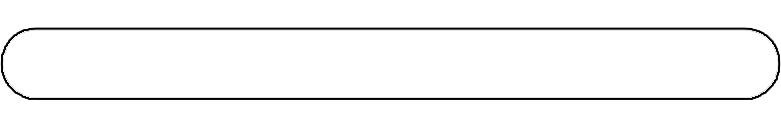
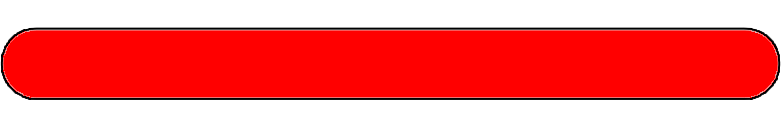
HPの背景を暗く設定

diff --git a/Project/GameSources/GameSprite.cpp b/Project/GameSources/GameSprite.cpp
@@ -81,6 +81,7 @@ namespace basecross {
 		m_HpBar->SetDiffuse(m_Color);
 		m_HpBar->SetDrawLayer(1);
 		m_HpBarBackGround = m_Stage->AddGameObject<Sprite>(L"HP_BAR2D", GetPosition(), Vec2(size.x, size.y));
+		m_HpBarBackGround->SetDiffuse(Col4(0, 0, 0, 1));
 		m_HpBarBackGround->SetDrawLayer(0);
 
 		auto edge = m_Stage->AddGameObject<Sprite>(L"HP_BAR_EDGE", leftEdgePosition, Vec2(size.y / 2.0f, size.y),true);
@@ -94,10 +95,12 @@ namespace basecross {
 		m_Edge.push_back(edge);
 
 		edge = m_Stage->AddGameObject<Sprite>(L"HP_BAR_EDGE", leftEdgePosition, Vec2(size.y / 2.0f, size.y), true);
+		edge->SetDiffuse(Col4(0, 0, 0, 1));
 		edge->SetDrawLayer(0);
 		m_Edge.push_back(edge);
 
 		edge = m_Stage->AddGameObject<Sprite>(L"HP_BAR_EDGE", rightEdgePosition, Vec2(size.y / 2.0f, size.y), true);
+		edge->SetDiffuse(Col4(0, 0, 0, 1));
 		edge->SetDrawLayer(0);
 		m_Edge.push_back(edge);
 	}

diff --git a/Project/GameSources/Sprite.cpp b/Project/GameSources/Sprite.cpp
@@ -516,6 +516,12 @@ namespace basecross {
 		m_Draw = AddComponent<PNTStaticDraw>();
 		m_Draw->SetDepthStencilState(DepthStencilState::Read);
 		m_Draw->SetOriginalMeshUse(true);
+		m_Draw->SetModelDiffusePriority(true);
+
+		m_Draw->SetDiffuse(Col4(1, 1, 1, 1));
+		m_Draw->SetEmissive(Col4(1, 1, 1, 1));
+		m_Draw->SetSpecular(Col4(1, 1, 1, 1));
+
 		vector<uint16_t> indices = {};
 		MeshUtill::CreateSquare(1.0f, m_Vertices, indices);
 		m_Draw->CreateOriginalMesh(m_Vertices, indices);
